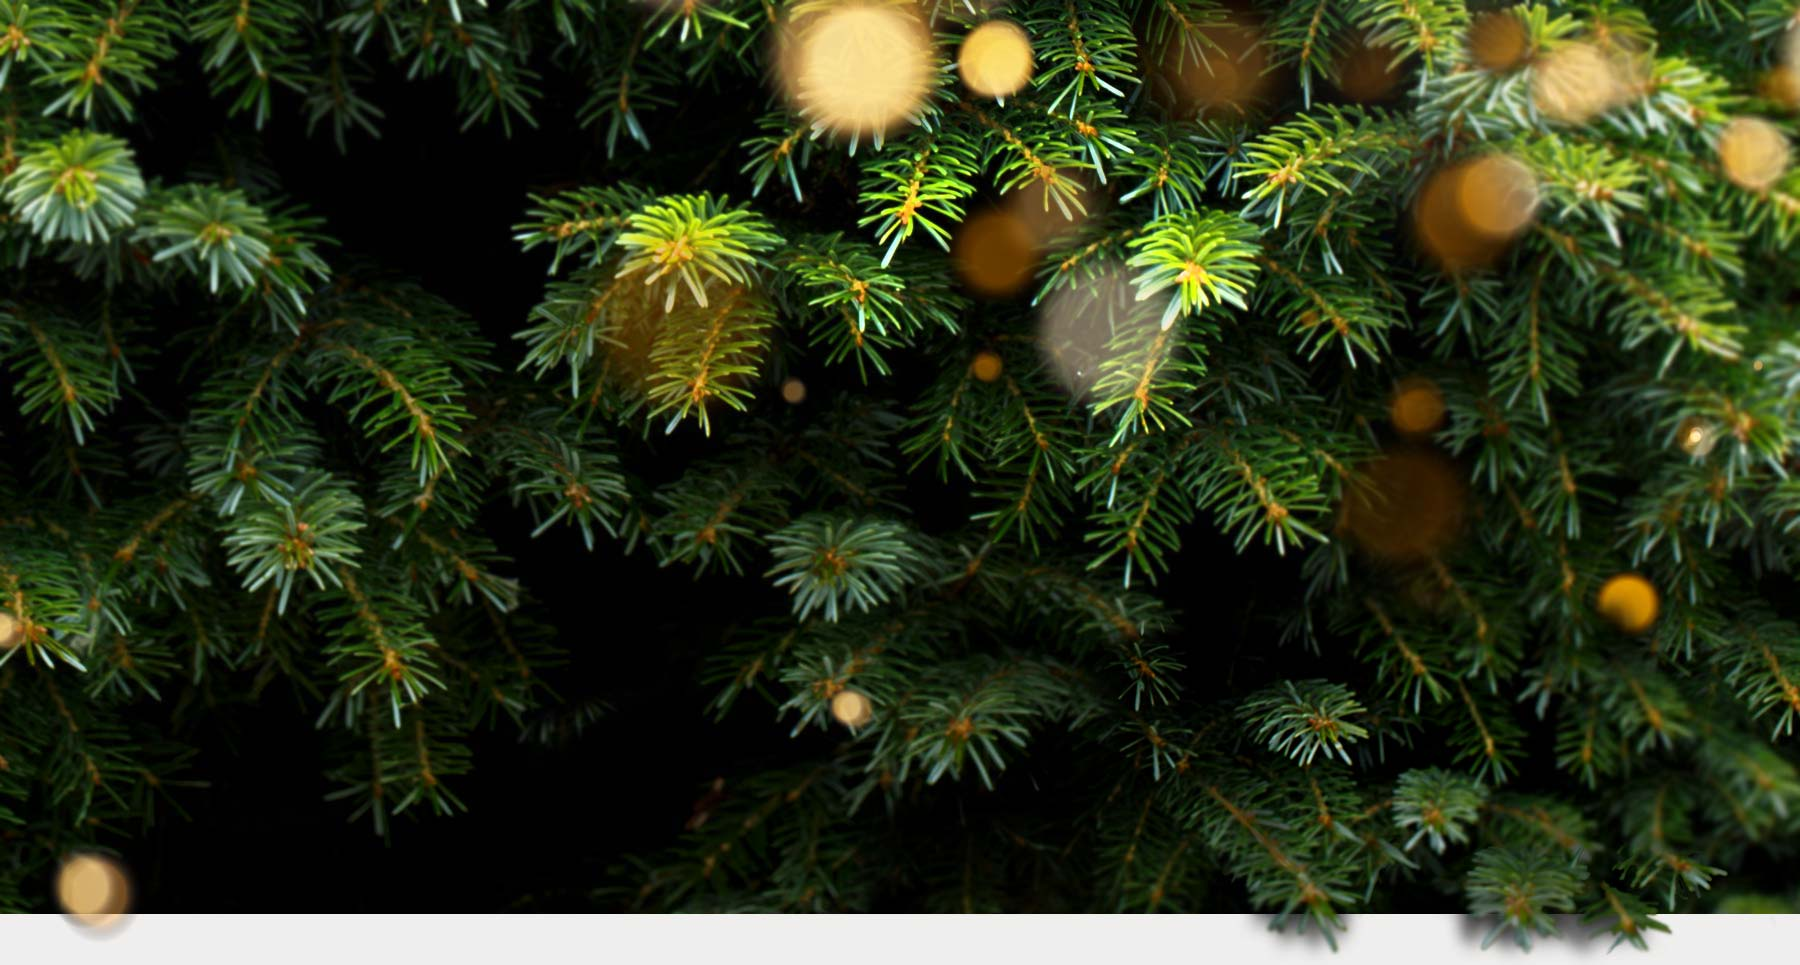
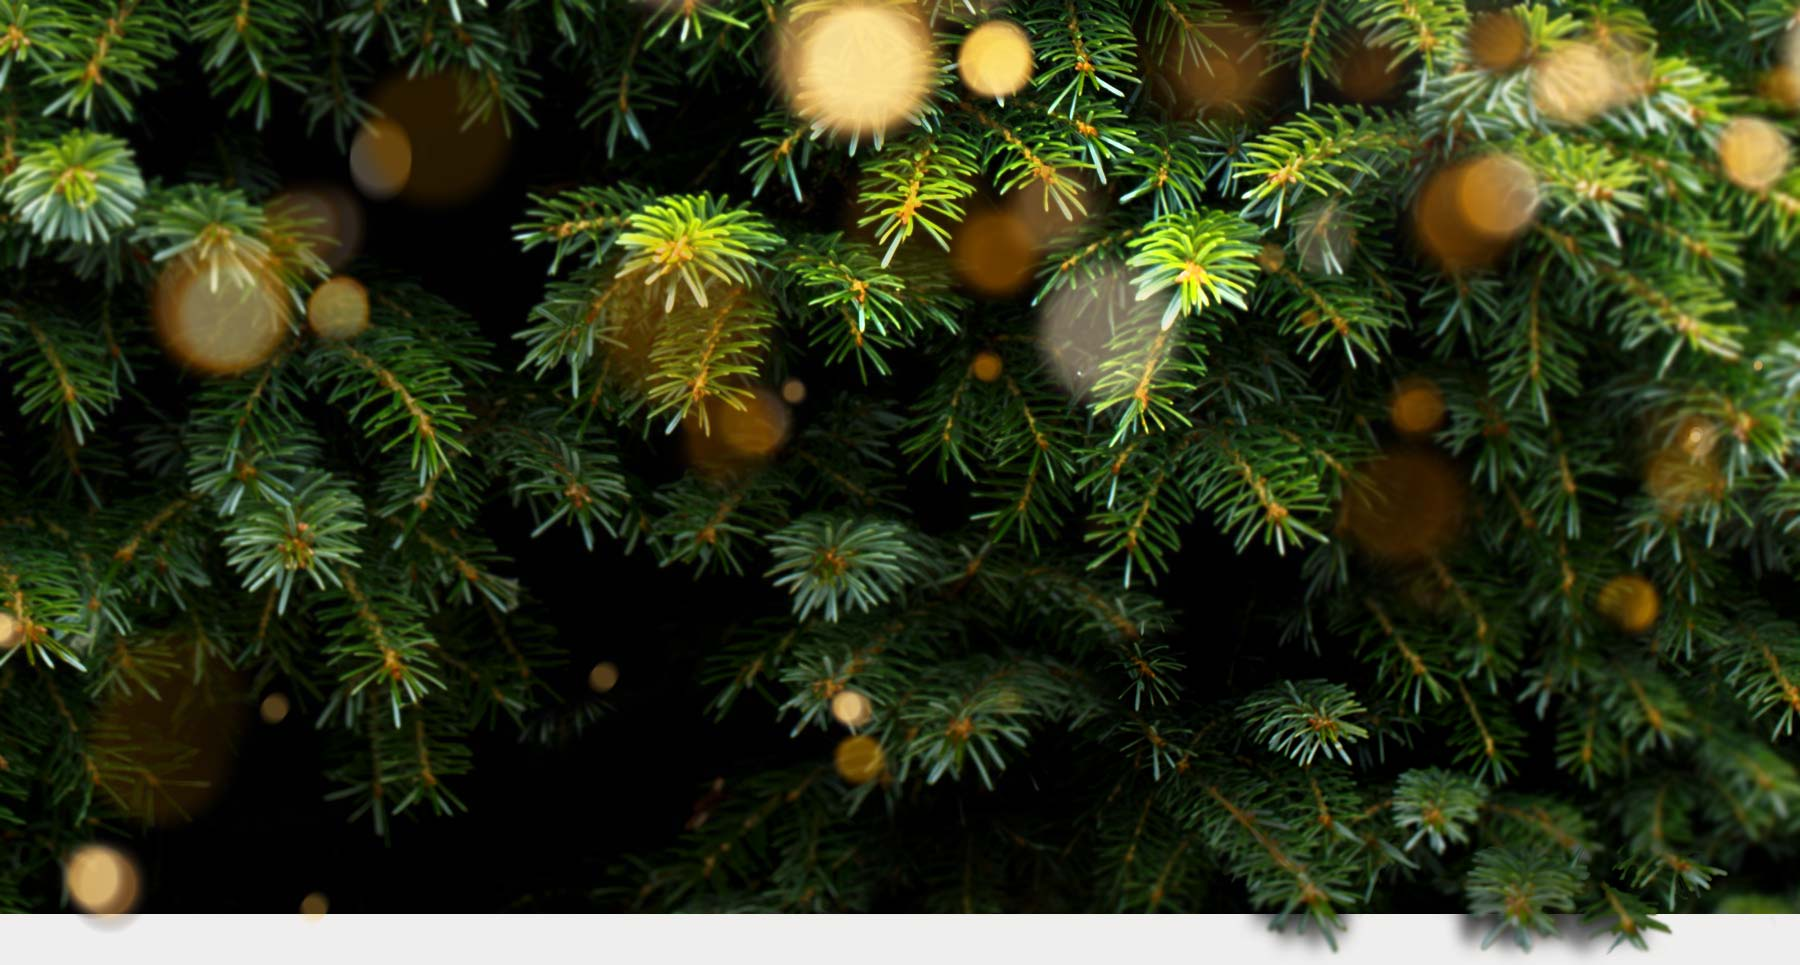
working sparkles

diff --git a/h103122/index.html b/h103122/index.html
@@ -98,8 +98,9 @@ h1.pop-clink {
 	font-style: normal;
 	display: inline;
 	font-size: 80px;
-	margin: 0 15px;
+	margin: 0 0;
 	text-shadow: 0 4px 9px #000;
+	line-height: 80px;
 }
 h1.bulgary {
 	font-family: 'Bulgary', serif;
@@ -107,19 +108,12 @@ h1.bulgary {
 	font-weight: normal;
 	font-style: normal;
 	display: inline;
-	font-size: 100px;
+	font-size: 104px;
 	text-shadow: 0 4px 9px #000;
+	margin: 0 12px 0 5px;
 }
 .branches-row {
 	background: #1c1c06 url("tree-branches.jpg") center bottom/cover;
-	position: relative;
-}
-.sparkle-one-row {
-	background: transparent url("sparkle-one.png") center bottom no-repeat;
-	display: flex;
-	align-items: center;
-	justify-content: center;
-	min-height: 1050px;
 }
 .forest-wrapper {
 	display: flex;
@@ -127,12 +121,9 @@ h1.bulgary {
 	max-width: 1200px;
 	margin: 0 auto;
 	padding: 15px;
-	position: absolute;
-	top: 265px;
-	right: 29%;
 }
 .details {
-	margin: 20px 0;
+	margin: 8px 0;
 	max-width: 950px;
 	display: flex;
 	align-items: center;
@@ -156,7 +147,8 @@ h1.forest {
 .forest.one {
 	font-size: 22px;
 	font-weight: 600;
-	margin-bottom: 5px;
+	/* margin-bottom: 5px; */
+	line-height: 20px;
 }
 .forest.two {
 	font-size: 18px;
@@ -253,6 +245,88 @@ transform: rotateZ(180deg);
 100% {
 transform: rotateZ(360deg);
 }
+}
+.sparkle-row-top {
+	display: flex;
+	justify-content: space-around;
+}
+.sparkle-row-bottom {
+	display: flex;
+	justify-content: space-around;
+	padding-bottom: 200px;
+	margin-top: -100px;
+}
+.sparkle-rotate:nth-of-type(1) {
+	animation: sparkle-rotate 15s .3s linear infinite both;
+}
+.sparkle-rotate:nth-of-type(2) {
+	animation: sparkle-rotate 18s .9s linear infinite both;
+}
+.sparkle-rotate:nth-of-type(3) {
+	animation: sparkle-rotate 10s 1s linear infinite both;
+}
+.sparkle-rotate:nth-of-type(4) {
+	animation: sparkle-rotate 16s .5s linear infinite both;
+}
+	.sparkle-rotate:nth-of-type(5) {
+	animation: sparkle-rotate 14s .2s linear infinite both;
+}
+.sparkle-rotate:nth-of-type(6) {
+	animation: sparkle-rotate 18s .1s linear infinite both;
+}
+@keyframes sparkle-rotate {
+0% {
+transform: rotateZ(0);
+}
+50% {
+opacity: 0;
+transform: rotateZ(180deg);
+}
+100% {
+transform: rotateZ(360deg);
+}
+}
+	
+	.sparkle-fall:nth-of-type(1) {
+	animation: sparkle-fall 14s .2s linear infinite both;
+}
+.sparkle-fall:nth-of-type(2) {
+	animation: sparkle-fall 20s .9s linear infinite both;
+}
+.sparkle-fall:nth-of-type(3) {
+	animation: sparkle-fall 15s .1s linear infinite both;
+}
+.sparkle-fall:nth-of-type(4) {
+	animation: sparkle-fall 20s .8s linear infinite both;
+}
+	.sparkle-fall:nth-of-type(5) {
+	animation: sparkle-fall 15s .3s linear infinite both;
+}
+.sparkle-fall:nth-of-type(6) {
+	animation: sparkle-fall 12s 1.5s linear infinite both;
+}
+@keyframes sparkle-fall {
+  0% {
+    transform: translateY(0%);
+	  opacity: 0;
+  }
+
+  25% {
+    
+	  opacity: 1;
+  }
+	  50% {
+    
+	  opacity: 0;
+  }
+	  75% {
+   
+	  opacity: 1;
+  }
+	  100% {
+    transform: translateY(100%);
+		  opacity: 0;
+  }
 }
 </style>
 <!-- InstanceEndEditable -->
@@ -429,7 +503,7 @@ $.get("https://s3.amazonaws.com/website.alert/alert.txt")
   <!-- InstanceBeginEditable name="Content" -->
   <div class="row no-gutter">
     <div class="branches-row">
-      <div class="sparkle-one-row"></div>
+      <div class="sparkle-row-top"><img class="img-responsive sparkle-rotate" src="s1.png" alt=""><img class="img-responsive sparkle-fall" src="s2.png" alt=""><img class="img-responsive sparkle-fall" src="s5.png" alt=""><img class="img-responsive sparkle-rotate" src="s4.png" alt=""><img class="img-responsive sparkle-fall" src="s6.png" alt=""><img class="img-responsive sparkle-fall" src="s3.png" alt=""></div>
       <div class="forest-wrapper">
         <div class="forest one"><i>Celebrate the Season!</i></div>
         <div class="heading-wrapper">
@@ -443,10 +517,10 @@ $.get("https://s3.amazonaws.com/website.alert/alert.txt")
             <div class="forest three">7&nbsp;<span class="sevens"></span>, 120+&nbsp;Decorated Trees</div>
             <div class="forest four">Unlimited Wonder!</div>
             <div class="forest two">Make DCL your first stop for the holidays. Visit every location and get ready to Ooh and Aah over decorated trees all dressed up in stories. Harry Potter, Ready Player One, Winnie-the-Pooh, and more. <span class="mark-your">Mark your calendar! Nov 19-Jan 7.</span></div>
-            <div class="padding-top-30"><a class="forest forest-read-more" href="forest-of-stories/">Read More</a></div>
+            <div class="padding-top-20"><a class="forest forest-read-more" href="forest-of-stories/">Read More</a></div>
           </div>
         </div>
-      </div>
+      </div><div class="sparkle-row-bottom"><img class="img-responsive sparkle-fall" src="s5.png" alt=""><img class="img-responsive sparkle-rotate" src="s3.png" alt=""><img class="img-responsive sparkle-fall" src="s2.png" alt=""><img class="img-responsive sparkle-fall" src="s4.png" alt=""><img class="img-responsive sparkle-fall" src="s6.png" alt=""><img class="img-responsive sparkle-rotate" src="s1.png" alt=""></div>
     </div>
   </div>
   <!-- InstanceEndEditable --> </div>
